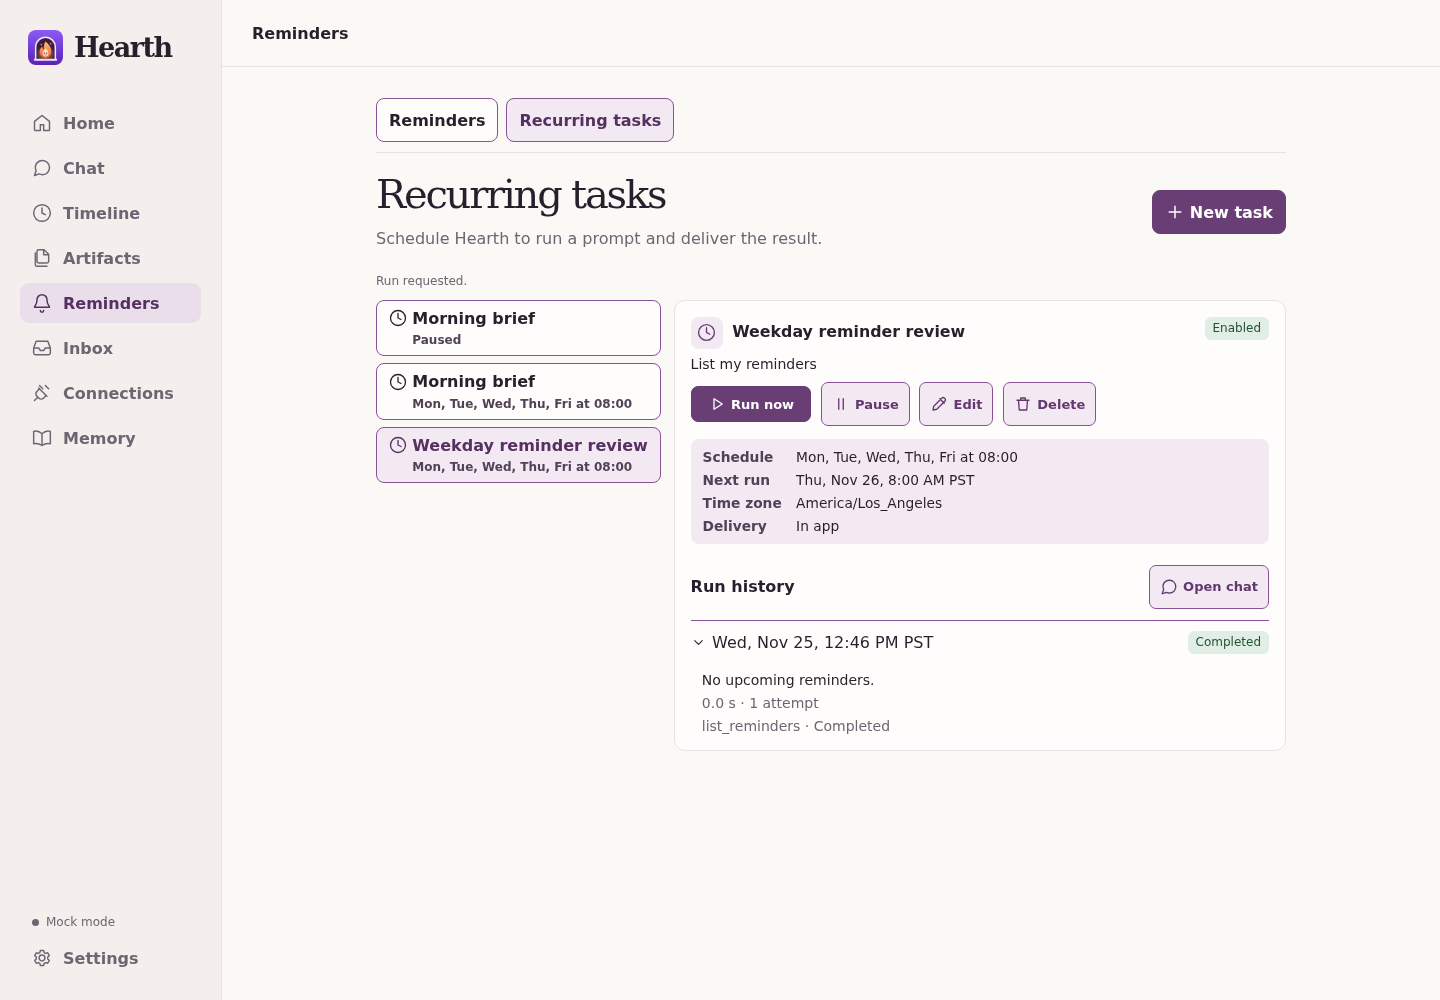
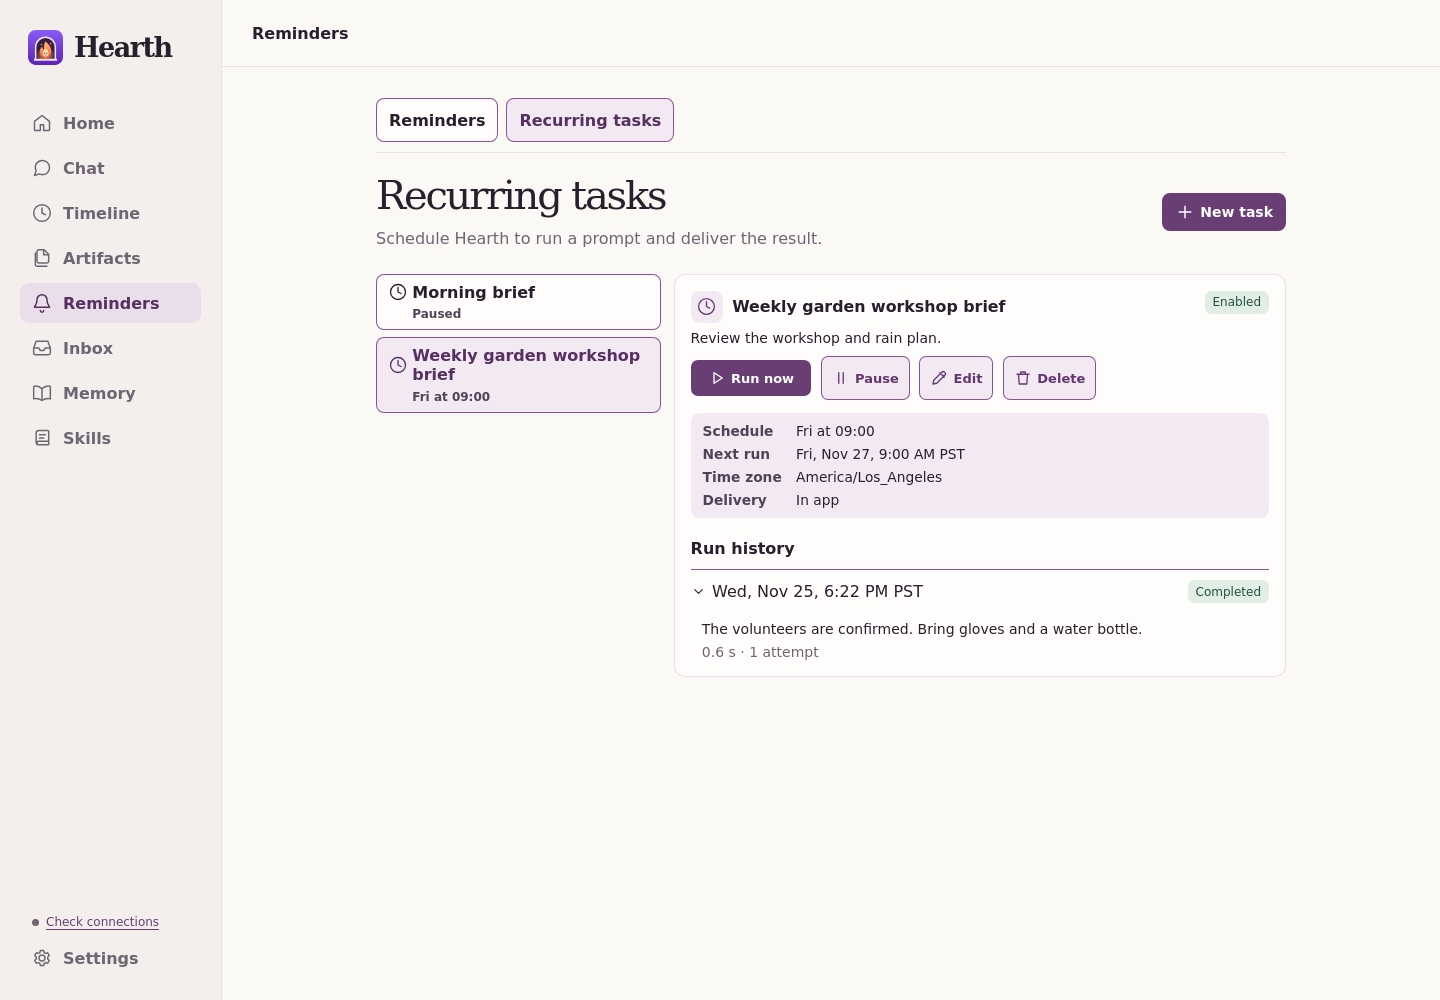
Refresh documentation screenshots with the audited workspace

diff --git a/QA-REPORT.md b/QA-REPORT.md
@@ -1,5 +1,9 @@
 # Hearth QA
 
+## Run 39
+
+See the [UI/UX audit](UX-AUDIT.md) for findings, screenshot pairs, and verification.
+
 ## Run 38
 
 - **Mobile drawer.** Playwright WebKit 27.2 passed at 375×667 and 390×844 in light and dark. From a fresh Home load with 12 seeded side chats, all seven navigation links fit before scrolling. Thread titles ellipsized, the drawer had no horizontal overflow, and Settings stayed pinned while the list scrolled to the last chat.
@@ -7,7 +11,7 @@
 - **Regression and contrast.** 195 Python tests and 8 Node tests passed. The Chromium browser regressions passed, and the sampled WCAG AA contrast sweep found zero failures in 16,956 measurements. [Development commands](docs/development.md)
 - **Sprite.** `scripts/deploy.sh` completed and `/health` returned HTTP 200 with Sprite checkpoints. The deployed HTML, CSS, and JavaScript checked against the local release matched. On the deployed service, WebKit rendered Settings, Connections, and Skills at 390 and 1440 px in both themes.
 
-Fixture screenshots are in `/workspace/tmp/hearth-qa/run38/`. The README images of Connections, Skills, and the mobile drawer use the same synthetic workspace. [Screenshots](README.md#screenshots)
+Fixture screenshots are in `/workspace/tmp/hearth-qa/run38/`. That run used fictional workspace data. [Screenshots](README.md#screenshots)
 
 ## Run 34
 
@@ -51,7 +55,7 @@ Use a test workspace with a connected brain and Exa. Stage a For you offer, Engl
 
 | Time | Action |
 | --- | --- |
-| 0–12 s | Open **Home → For you**. Read the reason for one offer, then choose **Do it** and show the side chat. |
+| 0–12 s | Open **Home → For you**. Read the reason for one offer, then choose its primary action and show the side chat. |
 | 12–28 s | Open **Memory → Topics**. Search for the Chinese phrase in the staged note, open its source, then point out the English note beside it. |
 | 28–43 s | Open **Skills** and point out **Try it** on **Weekly family brief**. Switch to the staged chat to show **Using skill**, then open the pending skill approval and unfold the proposed Markdown. |
 | 43–62 s | Open the worker comparison. Expand a worker’s Exa step, point out the separate worker timings, and show the combined answer and its sources. |

diff --git a/README.md b/README.md
@@ -8,13 +8,13 @@ Hearth is a personal agent that lives on a Fly.io Sprite. Ask Ember to plan dinn
 
 | Home | Chat approval | Artifacts and Pages |
 | --- | --- | --- |
-| [![Live Home showing a demo For you card, current weather, and healthy Pinecone and Browserbase connections](docs/screenshots/home.png)](docs/screenshots/home.png) | [![Ember beside an email approval card](docs/screenshots/chat-approval.png)](docs/screenshots/chat-approval.png) | [![HTML pages in the Artifacts library](docs/screenshots/artifacts-pages.png)](docs/screenshots/artifacts-pages.png) |
+| [![Home showing a For you suggestion, an active worker, and workspace panels](docs/screenshots/home.png)](docs/screenshots/home.png) | [![Ember beside an email approval card](docs/screenshots/chat-approval.png)](docs/screenshots/chat-approval.png) | [![HTML pages in the Artifacts library](docs/screenshots/artifacts-pages.png)](docs/screenshots/artifacts-pages.png) |
 | **Recurring tasks** | **Settings → Connections** | **Skills** |
 | [![Recurring task with schedule and run history](docs/screenshots/recurring-tasks.png)](docs/screenshots/recurring-tasks.png) | [![Connector catalog in Settings](docs/screenshots/connections.png)](docs/screenshots/connections.png) | [![Built-in playbooks in the Skills library](docs/screenshots/skills.png)](docs/screenshots/skills.png) |
 
 [<img src="docs/screenshots/mobile-dark-drawer.png" alt="Hearth’s dark mobile drawer with Settings pinned below the workspace links and chats" width="195">](docs/screenshots/mobile-dark-drawer.png)
 
-The Connections, Skills, and mobile drawer screenshots use local demo data. Home, Chat approval, Artifacts and Pages, and Recurring tasks were captured before the navigation update.
+The screenshots use fictional data from the workspace audit. [Run 39 UI/UX audit](UX-AUDIT.md)
 
 ## Navigation
 
